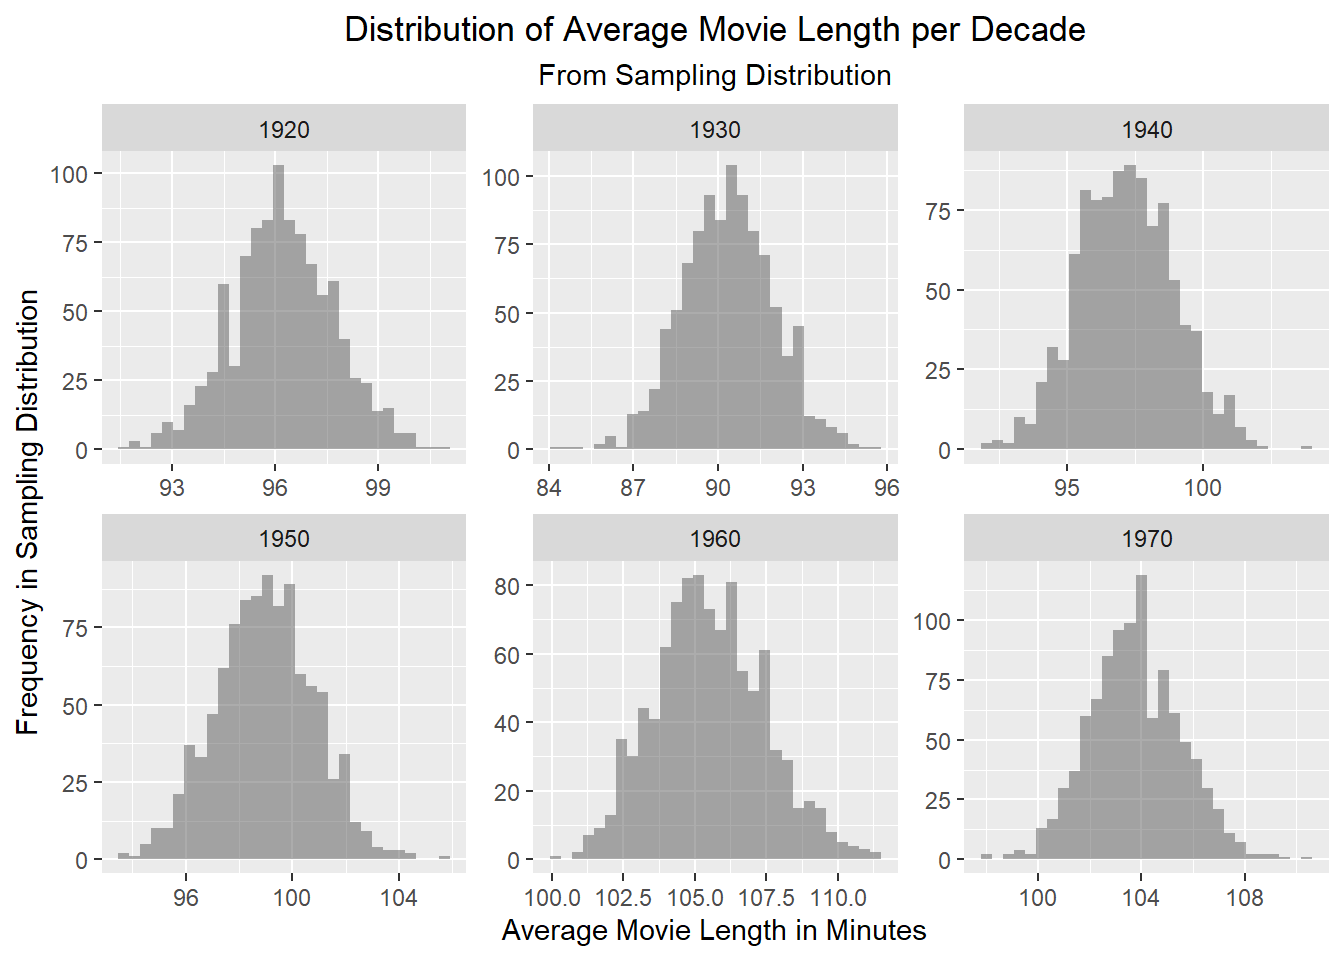
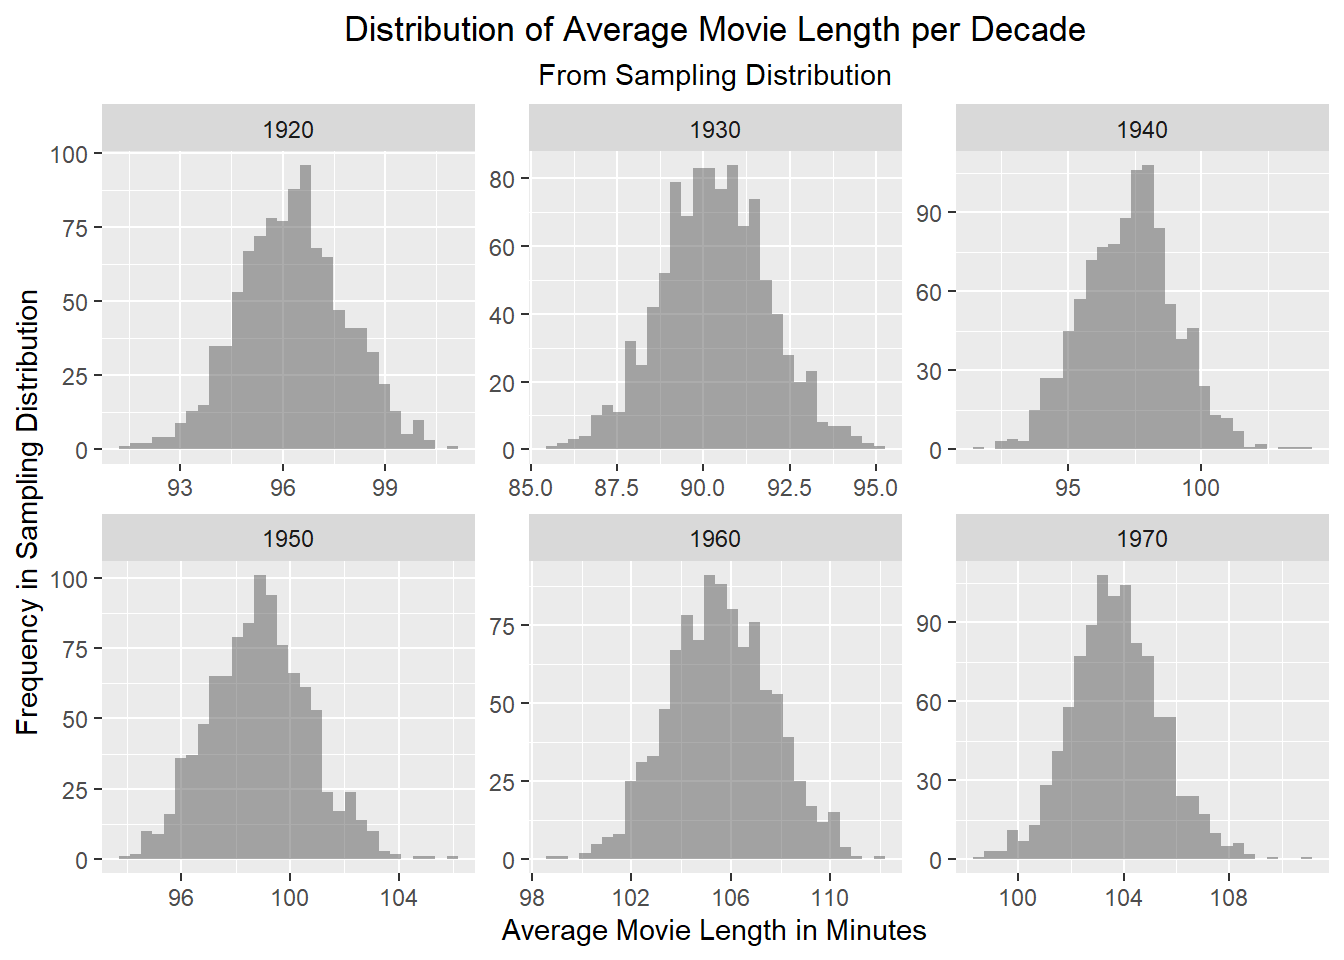
Commit Last

diff --git a/Exercise-05.html b/Exercise-05.html
@@ -199,12 +199,12 @@ min(runtimeMinutes))/10), : Ignoring unknown aesthetics: binwidth</code></pre>
 <pre><code># A tibble: 6 × 3
   Decade sample_mean sample_sd
    &lt;dbl&gt;       &lt;dbl&gt;     &lt;dbl&gt;
-1   1920        98.9      27.3
-2   1930        92.4      19.8
-3   1940        98.6      19.5
-4   1950        95.4      16.9
-5   1960       106.       21.8
-6   1970       103.       17.3</code></pre>
+1   1920        96.1      25.6
+2   1930        92        18.3
+3   1940       101.       18.5
+4   1950        98.4      17.4
+5   1960       105.       19.9
+6   1970       106.       17.3</code></pre>
 </div>
 </div>
 </section>
@@ -218,12 +218,12 @@ min(runtimeMinutes))/10), : Ignoring unknown aesthetics: binwidth</code></pre>
 <pre><code># A tibble: 6 × 4
   Decade sample_mean sample_sd sample_se
    &lt;dbl&gt;       &lt;dbl&gt;     &lt;dbl&gt;     &lt;dbl&gt;
-1   1920        98.9      27.3      2.73
-2   1930        92.4      19.8      1.98
-3   1940        98.6      19.5      1.95
-4   1950        95.4      16.9      1.69
-5   1960       106.       21.8      2.18
-6   1970       103.       17.3      1.73</code></pre>
+1   1920        96.1      25.6      2.56
+2   1930        92        18.3      1.83
+3   1940       101.       18.5      1.85
+4   1950        98.4      17.4      1.74
+5   1960       105.       19.9      1.99
+6   1970       106.       17.3      1.73</code></pre>
 </div>
 </div>
 </section>
@@ -239,20 +239,20 @@ min(runtimeMinutes))/10), : Ignoring unknown aesthetics: binwidth</code></pre>
 <span id="cb15-7"><a href="#cb15-7" aria-hidden="true" tabindex="-1"></a>Compare_Table <span class="ot">&lt;-</span> <span class="fu">merge</span>(Results, Sample, <span class="at">by =</span> <span class="st">"Decade"</span>)</span>
 <span id="cb15-8"><a href="#cb15-8" aria-hidden="true" tabindex="-1"></a><span class="fu">print</span>(Compare_Table)</span></code><button title="Copy to Clipboard" class="code-copy-button"><i class="bi"></i></button></pre></div>
 <div class="cell-output cell-output-stdout">
-<pre><code>  Decade  pop_mean   pop_sd   pop_se     z_score    p_score sample_mean
-1   1920  96.25658 26.20133 2.620133  1.02415437 0.30576237       98.94
-2   1930  90.30000 17.28879 1.728879  1.22622808 0.22011286       92.42
-3   1940  97.20332 19.12372 1.912372  0.71987840 0.47159987       98.58
-4   1950  98.94820 19.20646 1.920646 -1.84739737 0.06468957       95.40
-5   1960 105.58586 21.23202 2.123202  0.05375909 0.95712711      105.70
-6   1970 103.75000 17.95934 1.795934 -0.56794967 0.57006914      102.73
+<pre><code>  Decade  pop_mean   pop_sd   pop_se     z_score   p_score sample_mean
+1   1920  96.25658 26.20133 2.620133 -0.06357651 0.9493074       96.09
+2   1930  90.30000 17.28879 1.728879  0.98329610 0.3254617       92.00
+3   1940  97.20332 19.12372 1.912372  1.87551139 0.0607224      100.79
+4   1950  98.94820 19.20646 1.920646 -0.31145571 0.7554542       98.35
+5   1960 105.58586 21.23202 2.123202 -0.39838814 0.6903441      104.74
+6   1970 103.75000 17.95934 1.795934  1.21942136 0.2226843      105.94
   sample_sd sample_se
-1  27.33696  2.733696
-2  19.77764  1.977764
-3  19.46360  1.946360
-4  16.92348  1.692348
-5  21.75460  2.175460
-6  17.32684  1.732684</code></pre>
+1  25.63422  2.563422
+2  18.25853  1.825853
+3  18.47482  1.847482
+4  17.39870  1.739870
+5  19.94873  1.994873
+6  17.29005  1.729005</code></pre>
 </div>
 </div>
 <p>I used a z-test to compare the means of runtimeMinutes for the population and the single sample. This gave me z-scores for each decade, which I used to calculate the p-value for the z-score for each decade.</p>
@@ -286,16 +286,16 @@ min(runtimeMinutes))/10), : Ignoring unknown aesthetics: binwidth</code></pre>
 <pre><code># A tibble: 6,000 × 3
    Decade DistSample_mean DistSample_sd
     &lt;dbl&gt;           &lt;dbl&gt;         &lt;dbl&gt;
- 1   1920            98.8          26.4
- 2   1920            96.6          27.2
- 3   1920            97.6          25.7
- 4   1920            94.4          25.4
- 5   1920            94.3          25.0
- 6   1920            97.5          25.6
- 7   1920            93.8          25.1
- 8   1920            96.8          26.8
- 9   1920            93.1          24.7
-10   1920            96.2          26.5
+ 1   1920            94.8          26.2
+ 2   1920            94.6          25.5
+ 3   1920            94.8          25.5
+ 4   1920            95            25.5
+ 5   1920            97.4          26.7
+ 6   1920            95.8          25.1
+ 7   1920            97.4          27.0
+ 8   1920            95.3          24.3
+ 9   1920            96.7          27.1
+10   1920            96.4          26.7
 # ℹ 5,990 more rows</code></pre>
 </div>
 </div>
@@ -314,12 +314,12 @@ min(runtimeMinutes))/10), : Ignoring unknown aesthetics: binwidth</code></pre>
 <pre><code># A tibble: 6 × 3
   Decade distributionsample_mean distributionsample_sd
    &lt;dbl&gt;                   &lt;dbl&gt;                 &lt;dbl&gt;
-1   1920                    96.2                  1.50
-2   1930                    90.4                  1.62
-3   1940                    97.2                  1.77
-4   1950                    99.0                  1.83
-5   1960                   106.                   1.92
-6   1970                   104.                   1.77</code></pre>
+1   1920                    96.3                  1.54
+2   1930                    90.3                  1.56
+3   1940                    97.3                  1.74
+4   1950                    98.9                  1.83
+5   1960                   106.                   2.06
+6   1970                   104.                   1.72</code></pre>
 </div>
 <div class="sourceCode cell-code" id="cb21"><pre class="sourceCode r code-with-copy"><code class="sourceCode r"><span id="cb21-1"><a href="#cb21-1" aria-hidden="true" tabindex="-1"></a>Histogram2 <span class="ot">&lt;-</span> <span class="fu">ggplot</span>(DistSample, <span class="fu">aes</span>(<span class="at">x =</span> DistSample_mean)) <span class="sc">+</span></span>
 <span id="cb21-2"><a href="#cb21-2" aria-hidden="true" tabindex="-1"></a>  <span class="fu">geom_histogram</span>(<span class="fu">aes</span>(</span>
@@ -389,12 +389,12 @@ Ignoring unknown aesthetics: binwidth</code></pre>
 <pre><code># A tibble: 6 × 10
   Decade pop_mean sample_mean distributionsample_mean z_pop_sample p_pop_sample
    &lt;dbl&gt;    &lt;dbl&gt;       &lt;dbl&gt;                   &lt;dbl&gt;        &lt;dbl&gt;        &lt;dbl&gt;
-1   1920     96.3        98.9                    96.2       1.02         0.306 
-2   1930     90.3        92.4                    90.4       1.23         0.220 
-3   1940     97.2        98.6                    97.2       0.720        0.472 
-4   1950     98.9        95.4                    99.0      -1.85         0.0647
-5   1960    106.        106.                    106.        0.0538       0.957 
-6   1970    104.        103.                    104.       -0.568        0.570 
+1   1920     96.3        96.1                    96.3      -0.0636       0.949 
+2   1930     90.3        92                      90.3       0.983        0.325 
+3   1940     97.2       101.                     97.3       1.88         0.0607
+4   1950     98.9        98.4                    98.9      -0.311        0.755 
+5   1960    106.        105.                    106.       -0.398        0.690 
+6   1970    104.        106.                    104.        1.22         0.223 
 # ℹ 4 more variables: z_pop_dist &lt;dbl&gt;, p_pop_dist &lt;dbl&gt;, z_sample_dist &lt;dbl&gt;,
 #   p_sample_dist &lt;dbl&gt;</code></pre>
 </div>
@@ -568,18 +568,18 @@ dbl (6): id, height, weight, zombies_killed, years_of_education, age
 <span id="cb40-6"><a href="#cb40-6" aria-hidden="true" tabindex="-1"></a><span class="fu">print</span>(z_single)</span></code><button title="Copy to Clipboard" class="code-copy-button"><i class="bi"></i></button></pre></div>
 <div class="cell-output cell-output-stdout">
 <pre><code># A tibble: 250 × 7
-      id first_name last_name gender major                  variable       value
-   &lt;dbl&gt; &lt;chr&gt;      &lt;chr&gt;     &lt;chr&gt;  &lt;chr&gt;                  &lt;chr&gt;          &lt;dbl&gt;
- 1   103 Louis      Burke     Male   mechanical engineering height          72.4
- 2   103 Louis      Burke     Male   mechanical engineering weight         149. 
- 3   103 Louis      Burke     Male   mechanical engineering zombies_killed   0  
- 4   103 Louis      Burke     Male   mechanical engineering years_of_educ…   2  
- 5   103 Louis      Burke     Male   mechanical engineering age             19.6
- 6   487 Marilyn    Weaver    Female architecture           height          67.7
- 7   487 Marilyn    Weaver    Female architecture           weight         115. 
- 8   487 Marilyn    Weaver    Female architecture           zombies_killed   4  
- 9   487 Marilyn    Weaver    Female architecture           years_of_educ…   3  
-10   487 Marilyn    Weaver    Female architecture           age             24.7
+      id first_name last_name gender major     variable           value
+   &lt;dbl&gt; &lt;chr&gt;      &lt;chr&gt;     &lt;chr&gt;  &lt;chr&gt;     &lt;chr&gt;              &lt;dbl&gt;
+ 1    65 Gary       Morris    Male   education height              73.0
+ 2    65 Gary       Morris    Male   education weight             155. 
+ 3    65 Gary       Morris    Male   education zombies_killed       4  
+ 4    65 Gary       Morris    Male   education years_of_education   0  
+ 5    65 Gary       Morris    Male   education age                 19.8
+ 6    19 Jose       Ramirez   Male   economics height              74.8
+ 7    19 Jose       Ramirez   Male   economics weight             146. 
+ 8    19 Jose       Ramirez   Male   economics zombies_killed       2  
+ 9    19 Jose       Ramirez   Male   economics years_of_education   1  
+10    19 Jose       Ramirez   Male   economics age                 24.0
 # ℹ 240 more rows</code></pre>
 </div>
 <div class="sourceCode cell-code" id="cb42"><pre class="sourceCode r code-with-copy"><code class="sourceCode r"><span id="cb42-1"><a href="#cb42-1" aria-hidden="true" tabindex="-1"></a>z_single_results <span class="ot">&lt;-</span> z_single <span class="sc">%&gt;%</span></span>
@@ -597,11 +597,11 @@ dbl (6): id, height, weight, zombies_killed, years_of_education, age
 <pre><code># A tibble: 5 × 6
   variable  z_single_m z_single_sd z_single_se z_single_95ci_lo z_single_95ci_up
   &lt;chr&gt;          &lt;dbl&gt;       &lt;dbl&gt;       &lt;dbl&gt;            &lt;dbl&gt;            &lt;dbl&gt;
-1 age            20.1         3.18       0.449            19.2             21.0 
-2 height         68.0         4.34       0.614            66.8             69.2 
-3 weight        146.         18.6        2.62            141.             151.  
-4 years_of…       2.98        1.46       0.207             2.57             3.39
-5 zombies_…       2.82        1.85       0.261             2.31             3.33</code></pre>
+1 age            20.4         2.91       0.412            19.6             21.2 
+2 height         68.3         4.00       0.565            67.2             69.4 
+3 weight        143.         16.9        2.39            139.             148.  
+4 years_of…       3           1.64       0.232             2.55             3.45
+5 zombies_…       3.06        1.67       0.236             2.60             3.52</code></pre>
 </div>
 </div>
 </section>
@@ -637,16 +637,16 @@ dbl (6): id, height, weight, zombies_killed, years_of_education, age
 <pre><code># A tibble: 1,000 × 3
    variable           z_sampling_m z_sampling_sd
    &lt;chr&gt;                     &lt;dbl&gt;         &lt;dbl&gt;
- 1 age                       19.6           2.85
- 2 height                    66.9           3.78
- 3 weight                   141.           14.8 
- 4 years_of_education         2.98          1.62
- 5 zombies_killed             2.58          1.51
- 6 age                       19.8           3.02
- 7 height                    67.1           4.09
- 8 weight                   143.           18.0 
- 9 years_of_education         3.08          1.79
-10 zombies_killed             2.88          1.62
+ 1 age                       19.2           2.30
+ 2 height                    66.4           3.81
+ 3 weight                   139.           17.8 
+ 4 years_of_education         3             1.75
+ 5 zombies_killed             2.58          1.64
+ 6 age                       20.1           2.40
+ 7 height                    67.5           3.89
+ 8 weight                   143.           16.6 
+ 9 years_of_education         3.3           1.53
+10 zombies_killed             3.12          1.99
 # ℹ 990 more rows</code></pre>
 </div>
 <div class="sourceCode cell-code" id="cb46"><pre class="sourceCode r code-with-copy"><code class="sourceCode r"><span id="cb46-1"><a href="#cb46-1" aria-hidden="true" tabindex="-1"></a>z_single_results <span class="ot">&lt;-</span> z_single_results <span class="sc">%&gt;%</span></span>
@@ -665,11 +665,11 @@ dbl (6): id, height, weight, zombies_killed, years_of_education, age
 <pre><code># A tibble: 5 × 3
   variable           z_sampling_results_m z_sampling_results_sd
   &lt;chr&gt;                             &lt;dbl&gt;                 &lt;dbl&gt;
-1 age                               20.1                  0.291
-2 height                            67.6                  0.424
-3 weight                           144.                   1.70 
-4 years_of_education                 2.99                 0.153
-5 zombies_killed                     3.00                 0.188</code></pre>
+1 age                               20.0                  0.300
+2 height                            67.6                  0.427
+3 weight                           144.                   1.92 
+4 years_of_education                 3.02                 0.156
+5 zombies_killed                     2.97                 0.178</code></pre>
 </div>
 <div class="sourceCode cell-code" id="cb48"><pre class="sourceCode r code-with-copy"><code class="sourceCode r"><span id="cb48-1"><a href="#cb48-1" aria-hidden="true" tabindex="-1"></a>z_scores <span class="ot">&lt;-</span> z_sampling_results <span class="sc">%&gt;%</span></span>
 <span id="cb48-2"><a href="#cb48-2" aria-hidden="true" tabindex="-1"></a>  <span class="fu">mutate</span>(</span>
@@ -681,11 +681,11 @@ dbl (6): id, height, weight, zombies_killed, years_of_education, age
 <pre><code># A tibble: 5 × 4
   variable           z_sampling_results_m z_sampling_results_sd z_score
   &lt;chr&gt;                             &lt;dbl&gt;                 &lt;dbl&gt;   &lt;dbl&gt;
-1 age                               20.1                  0.291 -0.0344
-2 height                            67.6                  0.424 -0.666 
-3 weight                           144.                   1.70  -0.747 
-4 years_of_education                 2.99                 0.153  0.0585
-5 zombies_killed                     3.00                 0.188  0.670 </code></pre>
+1 age                               20.0                  0.300 -0.840 
+2 height                            67.6                  0.427 -1.21  
+3 weight                           144.                   1.92   0.208 
+4 years_of_education                 3.02                 0.156  0.0866
+5 zombies_killed                     2.97                 0.178 -0.374 </code></pre>
 </div>
 <div class="sourceCode cell-code" id="cb50"><pre class="sourceCode r code-with-copy"><code class="sourceCode r"><span id="cb50-1"><a href="#cb50-1" aria-hidden="true" tabindex="-1"></a>z_final_tibble <span class="ot">&lt;-</span> z_sampling_results <span class="sc">%&gt;%</span></span>
 <span id="cb50-2"><a href="#cb50-2" aria-hidden="true" tabindex="-1"></a>  <span class="fu">select</span>(variable, z_sampling_results_sd) <span class="sc">%&gt;%</span></span>
@@ -698,13 +698,88 @@ dbl (6): id, height, weight, zombies_killed, years_of_education, age
 <pre><code># A tibble: 5 × 4
   variable           z_sampling_results_sd z_single_se z_score
   &lt;chr&gt;                              &lt;dbl&gt;       &lt;dbl&gt;   &lt;dbl&gt;
-1 age                                0.291       0.449 -0.0344
-2 height                             0.424       0.614 -0.666 
-3 weight                             1.70        2.62  -0.747 
-4 years_of_education                 0.153       0.207  0.0585
-5 zombies_killed                     0.188       0.261  0.670 </code></pre>
+1 age                                0.300       0.412 -0.840 
+2 height                             0.427       0.565 -1.21  
+3 weight                             1.92        2.39   0.208 
+4 years_of_education                 0.156       0.232  0.0866
+5 zombies_killed                     0.178       0.236 -0.374 </code></pre>
 </div>
 </div>
+<p>The means and Standard deviations of each variable of the sample distribution can be seen in the tibble called “z_sampling_results.” Generally, the standard deviation values for all variables of the distribution sample are barely above 0 (only a few decimal points) and the standard error for all variables of the single sample are also barely above 0. The only exception to both of these calculations are the values relating to the variable weight.</p>
+<p>The low value for the standard deviation means that all the values for each variable are similar to each other. In other words, their is very little variation between the values of each variable. This is also seen in the data itself, for example the range of age is only of about 20 years (the youngest person is 10 and the oldest almost 30). Given the short range, all values for age are relatively close to the mean and, thus the standard deviation is low. The same can be said for height, years of education, and zombies killed.</p>
+<p>The only variable with a larger range of values is weight (from 90 to 210). As a result, the standard deviation of the samling distribution and the standard error of the single sample for this variable are a bit higher than the results of the other variables. Both the standard deviation of the sampling distribution and the standard error of the single sample are above 1 (even if only by a few decimals), which reflects the variability of the values for weight.</p>
+<p>Lastly, the z-scores are all near 0, only a few negative decimal points away from 0. This means that, regardless of the variability of the values for the different variables, the means of the single sample and the sampling distribution are both quite similar, though not identical (z-score =/= 0).</p>
+</section>
+<section id="step-8-plot-of-means-of-sampling-distribution-for-each-variable" class="level2">
+<h2 class="anchored" data-anchor-id="step-8-plot-of-means-of-sampling-distribution-for-each-variable">Step 8: Plot of Means of Sampling Distribution for Each Variable</h2>
+<div class="cell">
+<div class="sourceCode cell-code" id="cb52"><pre class="sourceCode r code-with-copy"><code class="sourceCode r"><span id="cb52-1"><a href="#cb52-1" aria-hidden="true" tabindex="-1"></a>z_Hist2 <span class="ot">&lt;-</span> <span class="fu">ggplot</span>(z_sampling, <span class="fu">aes</span>(<span class="at">x =</span> z_sampling_m)) <span class="sc">+</span></span>
+<span id="cb52-2"><a href="#cb52-2" aria-hidden="true" tabindex="-1"></a>  <span class="fu">geom_histogram</span>(<span class="at">binwidth =</span> <span class="dv">1</span>, <span class="at">alpha =</span> <span class="fl">0.5</span>) <span class="sc">+</span>   </span>
+<span id="cb52-3"><a href="#cb52-3" aria-hidden="true" tabindex="-1"></a>  <span class="fu">facet_wrap</span>(<span class="sc">~</span>variable, <span class="at">scales =</span> <span class="st">"free"</span>) <span class="sc">+</span>   </span>
+<span id="cb52-4"><a href="#cb52-4" aria-hidden="true" tabindex="-1"></a>  <span class="fu">labs</span>(</span>
+<span id="cb52-5"><a href="#cb52-5" aria-hidden="true" tabindex="-1"></a>    <span class="at">title =</span> <span class="st">"Sampling Distribution of Means by Variables"</span>,         </span>
+<span id="cb52-6"><a href="#cb52-6" aria-hidden="true" tabindex="-1"></a>    <span class="at">x =</span> <span class="st">"Sample Mean"</span>,</span>
+<span id="cb52-7"><a href="#cb52-7" aria-hidden="true" tabindex="-1"></a>    <span class="at">y=</span> <span class="st">"Frequency"</span></span>
+<span id="cb52-8"><a href="#cb52-8" aria-hidden="true" tabindex="-1"></a>    ) <span class="sc">+</span>   </span>
+<span id="cb52-9"><a href="#cb52-9" aria-hidden="true" tabindex="-1"></a>  <span class="fu">theme</span>(<span class="at">plot.title =</span> <span class="fu">element_text</span>(<span class="at">hjust =</span> <span class="fl">0.5</span>)) </span>
+<span id="cb52-10"><a href="#cb52-10" aria-hidden="true" tabindex="-1"></a></span>
+<span id="cb52-11"><a href="#cb52-11" aria-hidden="true" tabindex="-1"></a><span class="fu">print</span>(z_Hist2)</span></code><button title="Copy to Clipboard" class="code-copy-button"><i class="bi"></i></button></pre></div>
+<div class="cell-output-display">
+<div>
+<figure class="figure">
+<p><img src="Exercise-05_files/figure-html/unnamed-chunk-19-1.png" class="img-fluid figure-img" width="672"></p>
+</figure>
+</div>
+</div>
+<div class="sourceCode cell-code" id="cb53"><pre class="sourceCode r code-with-copy"><code class="sourceCode r"><span id="cb53-1"><a href="#cb53-1" aria-hidden="true" tabindex="-1"></a><span class="fu">print</span>(z_Hist1)</span></code><button title="Copy to Clipboard" class="code-copy-button"><i class="bi"></i></button></pre></div>
+<div class="cell-output-display">
+<div>
+<figure class="figure">
+<p><img src="Exercise-05_files/figure-html/unnamed-chunk-19-2.png" class="img-fluid figure-img" width="672"></p>
+</figure>
+</div>
+</div>
+</div>
+<p>The variables that appeared to have less of a normal distribution look more normally distributed now, but that might be because there is very little variability in the values of the means of the samples in the sampling distribution. Interestingly the weight variable looked more normally distributed in the first histogram, in this histogram there appears to be a gap around 143, where there are less means with that value in the sampling distribution.</p>
+</section>
+<section id="step-9-95-confidence-interval" class="level2">
+<h2 class="anchored" data-anchor-id="step-9-95-confidence-interval">Step 9: 95% Confidence Interval</h2>
+<div class="cell">
+<div class="sourceCode cell-code" id="cb54"><pre class="sourceCode r code-with-copy"><code class="sourceCode r"><span id="cb54-1"><a href="#cb54-1" aria-hidden="true" tabindex="-1"></a>z_sampling_results <span class="ot">&lt;-</span> z_sampling_results <span class="sc">%&gt;%</span></span>
+<span id="cb54-2"><a href="#cb54-2" aria-hidden="true" tabindex="-1"></a>  <span class="fu">left_join</span>(</span>
+<span id="cb54-3"><a href="#cb54-3" aria-hidden="true" tabindex="-1"></a>  z_sampling <span class="sc">%&gt;%</span></span>
+<span id="cb54-4"><a href="#cb54-4" aria-hidden="true" tabindex="-1"></a>  <span class="fu">group_by</span>(variable) <span class="sc">%&gt;%</span></span>
+<span id="cb54-5"><a href="#cb54-5" aria-hidden="true" tabindex="-1"></a>  <span class="fu">summarise</span>(</span>
+<span id="cb54-6"><a href="#cb54-6" aria-hidden="true" tabindex="-1"></a>    <span class="at">z_sampling_ci_lo =</span> <span class="fu">quantile</span>(z_sampling_m, <span class="fl">0.025</span>),</span>
+<span id="cb54-7"><a href="#cb54-7" aria-hidden="true" tabindex="-1"></a>    <span class="at">z_sampling_ci_up =</span> <span class="fu">quantile</span>(z_sampling_m, <span class="fl">0.975</span>)</span>
+<span id="cb54-8"><a href="#cb54-8" aria-hidden="true" tabindex="-1"></a>  ),</span>
+<span id="cb54-9"><a href="#cb54-9" aria-hidden="true" tabindex="-1"></a>  <span class="at">by =</span> <span class="st">"variable"</span>)</span>
+<span id="cb54-10"><a href="#cb54-10" aria-hidden="true" tabindex="-1"></a></span>
+<span id="cb54-11"><a href="#cb54-11" aria-hidden="true" tabindex="-1"></a><span class="fu">print</span>(z_sampling_results)</span></code><button title="Copy to Clipboard" class="code-copy-button"><i class="bi"></i></button></pre></div>
+<div class="cell-output cell-output-stdout">
+<pre><code># A tibble: 5 × 5
+  variable           z_sampling_results_m z_sampling_results_sd z_sampling_ci_lo
+  &lt;chr&gt;                             &lt;dbl&gt;                 &lt;dbl&gt;            &lt;dbl&gt;
+1 age                               20.0                  0.300            19.3 
+2 height                            67.6                  0.427            66.4 
+3 weight                           144.                   1.92            139.  
+4 years_of_education                 3.02                 0.156             2.60
+5 zombies_killed                     2.97                 0.178             2.56
+# ℹ 1 more variable: z_sampling_ci_up &lt;dbl&gt;</code></pre>
+</div>
+<div class="sourceCode cell-code" id="cb56"><pre class="sourceCode r code-with-copy"><code class="sourceCode r"><span id="cb56-1"><a href="#cb56-1" aria-hidden="true" tabindex="-1"></a><span class="fu">print</span>(z_single_results)</span></code><button title="Copy to Clipboard" class="code-copy-button"><i class="bi"></i></button></pre></div>
+<div class="cell-output cell-output-stdout">
+<pre><code># A tibble: 5 × 6
+  variable  z_single_m z_single_sd z_single_se z_single_95ci_lo z_single_95ci_up
+  &lt;chr&gt;          &lt;dbl&gt;       &lt;dbl&gt;       &lt;dbl&gt;            &lt;dbl&gt;            &lt;dbl&gt;
+1 age            20.4         2.91       0.412            19.6             21.2 
+2 height         68.3         4.00       0.565            67.2             69.4 
+3 weight        143.         16.9        2.39            139.             148.  
+4 years_of…       3           1.64       0.232             2.55             3.45
+5 zombies_…       3.06        1.67       0.236             2.60             3.52</code></pre>
+</div>
+</div>
+<p>Although the CIs for each variable are very different, none of the CIs are very wide, therefore the estimate appears to be quite precise.</p>
 </section>
 </section>
 
